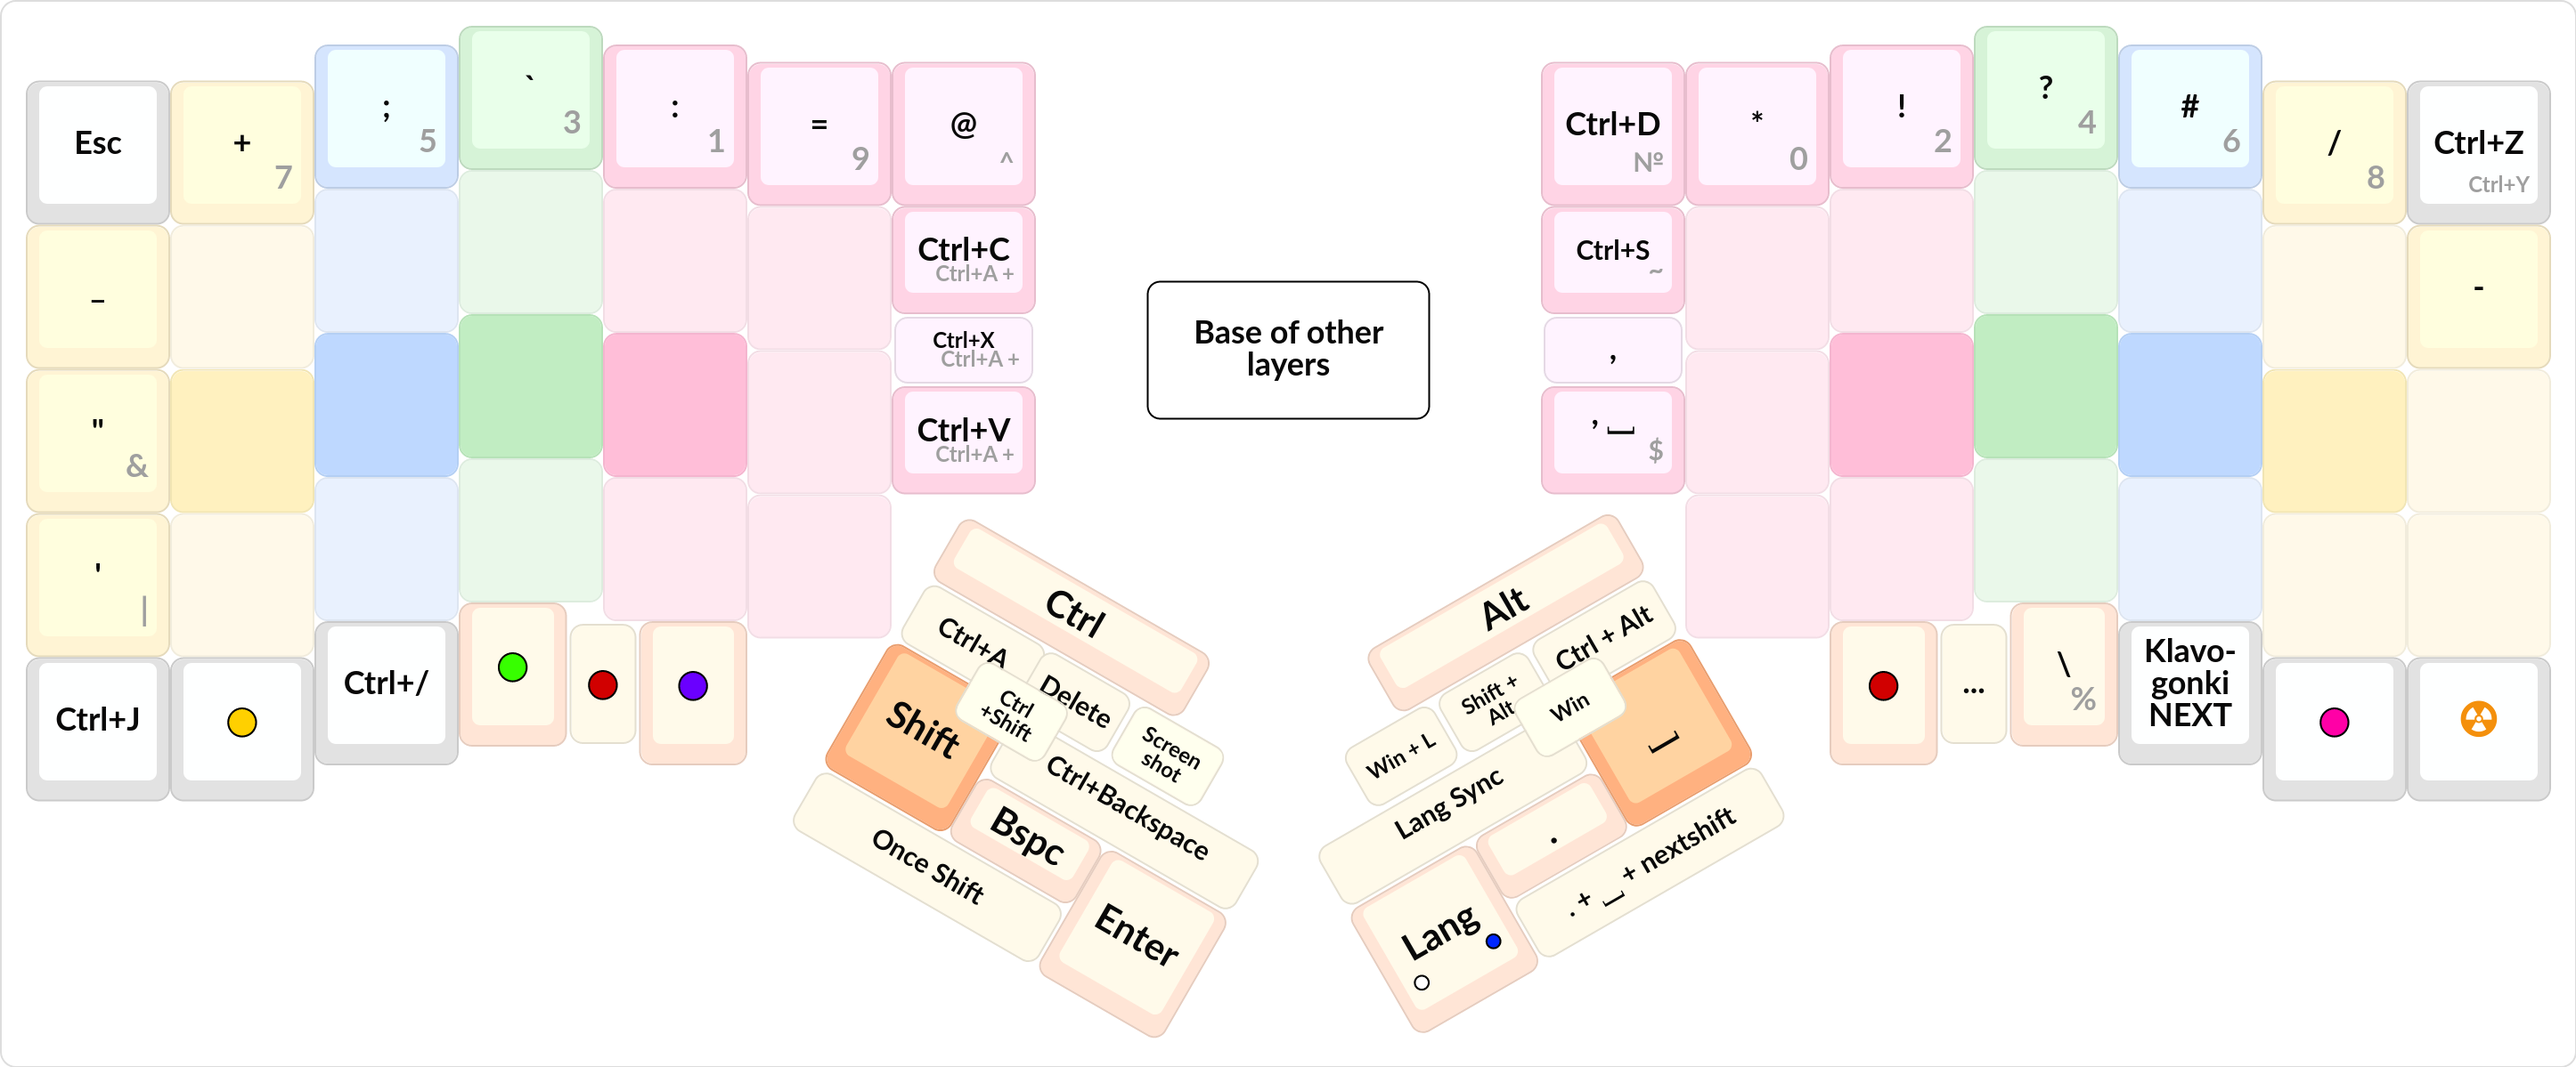
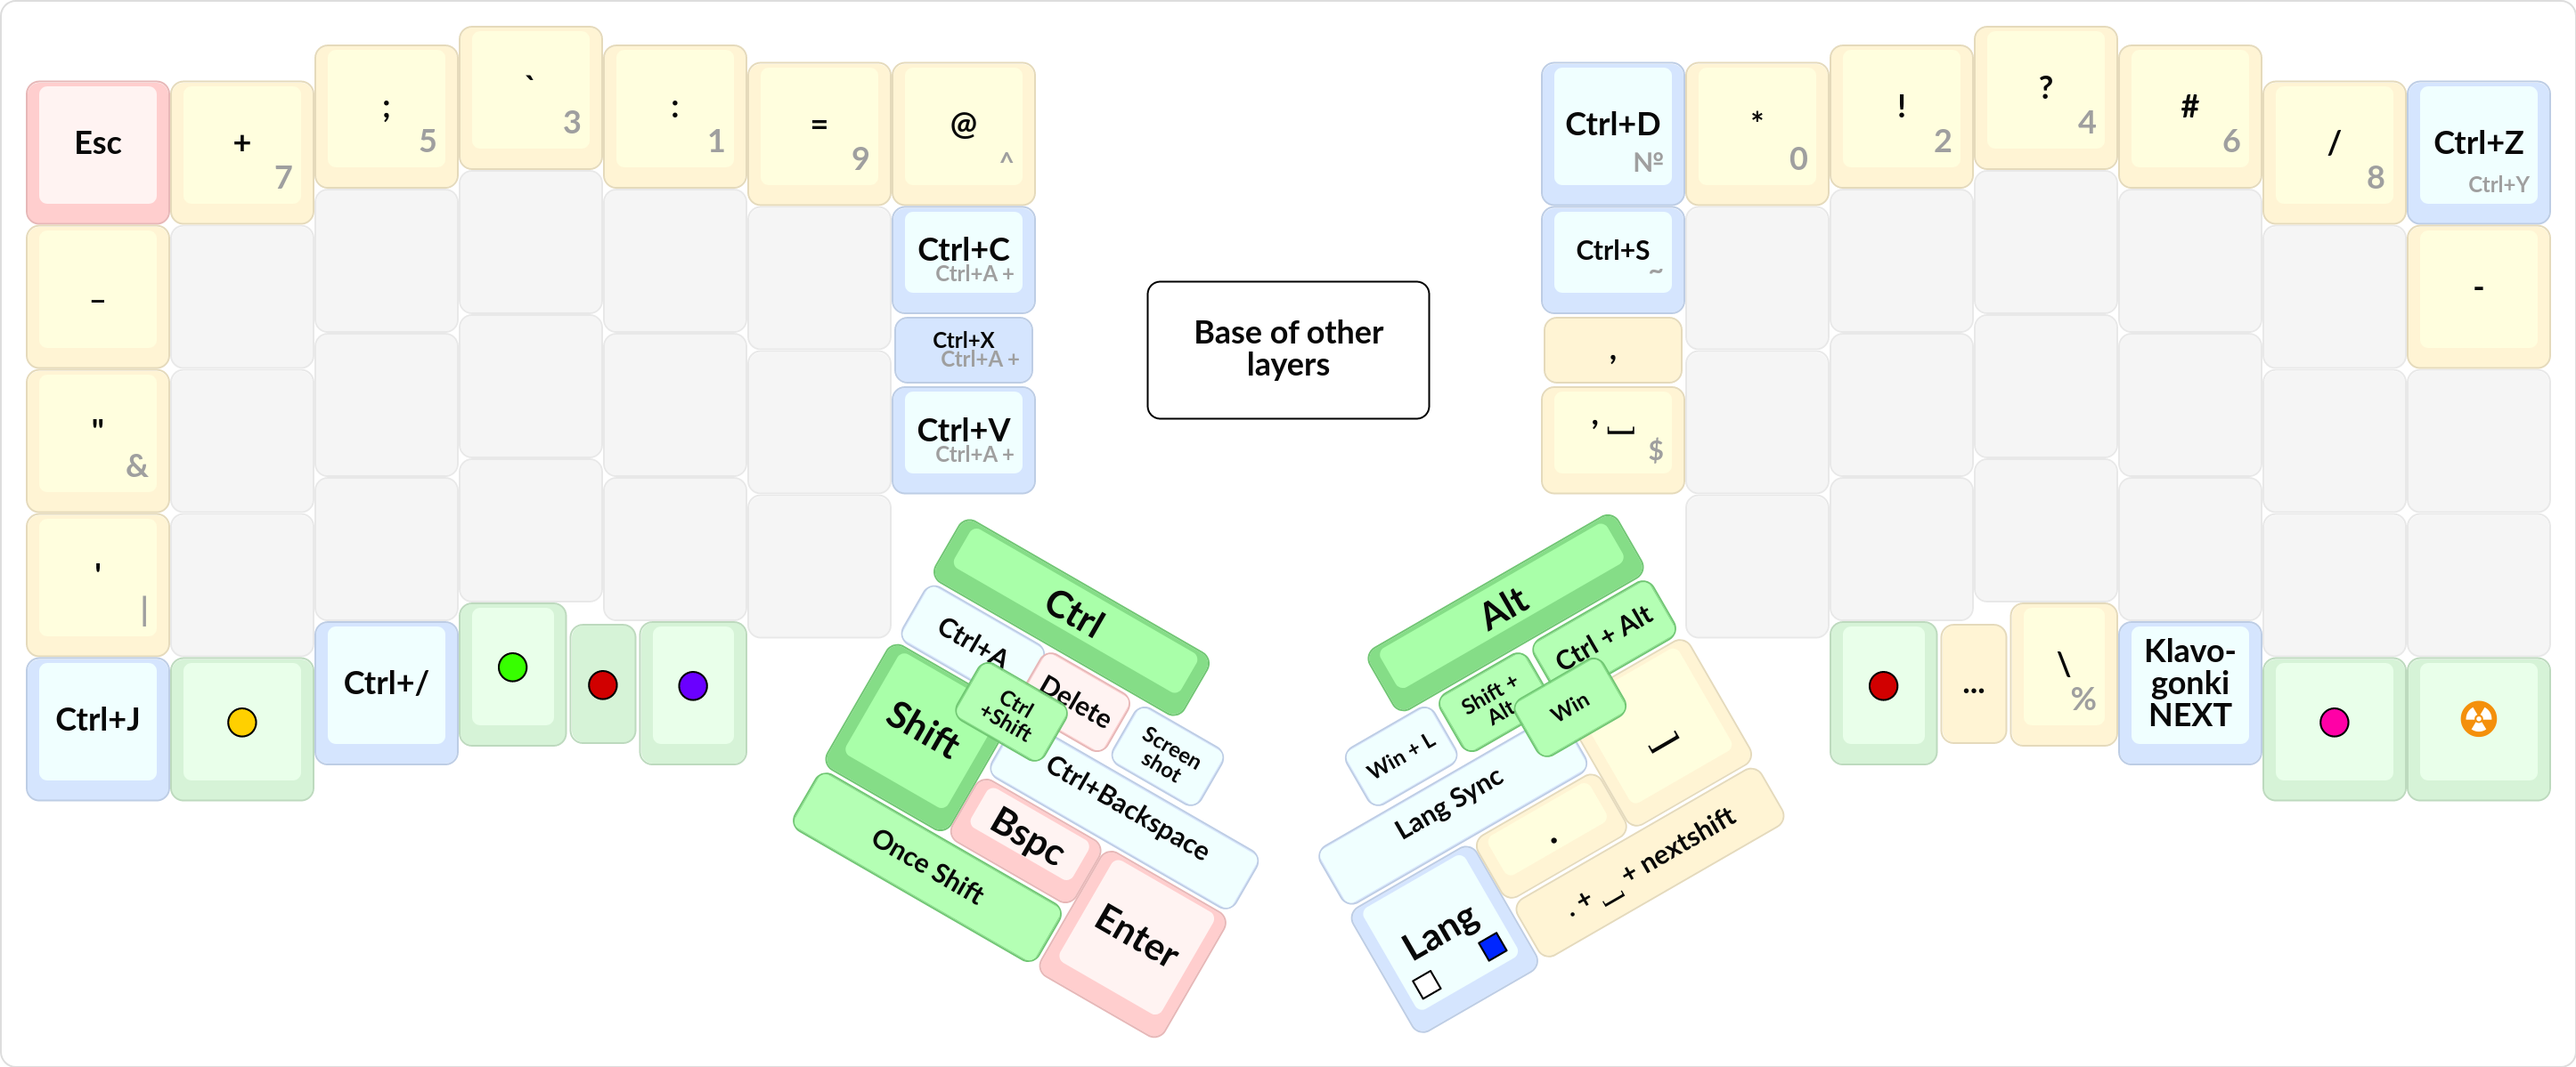
add images

diff --git a/README.md b/README.md
@@ -47,7 +47,13 @@
 
 Пока что без объяснений, просто кидаюсь картинкой, выглядит она так:
 
-![](img/layout_all.png)
+![](img/zones.png)
+![](img/base.png)
+![](img/chords.png)
+![](img/langs.png)
+![](img/red_green.png)
+![](img/violet_yellow.png)
+![](img/game_nuclear.png)
 
 ## Как ты сделал эту раскладку?
 
@@ -327,6 +333,26 @@
 
 Поэтому в основном все самые продвинутые люди хранят свои слои и вообще раскладки полностью внутри клавиатуры. Там это и легче сделается, и вообще это кросс-платформенно.
 
+### Каждому слою - своя картинка
+
+Если вы взглянете на стандартную клавиатуру, где нанесены надписи на русском языке, то не зная клавиатуры, довольно сложно понять что при каком языке, при шифте нажимается. Ещё надписи располагаются по углам клавиши.
+
+Примерно такому же стилю следуют люди, которые рисуют свою раскладку для программируемой клавиатуры, где помимо двух языков может быть ещё два дополнительных слоя. Из-за этого им приходится сувать надписи в экзотические места, а иногда разукрашивать надписи разным цветом для разных клавиш.
+
+Пример:
+
+![](img/snag.png)
+
+Взято с вики про клавиатуру [Коряга](http://klavarog.tk/page/клавиатуры/коряга). Справедливости ради стоит сказать, что автор в своей раскладке на KLE таки разделил всё на отдельные слои, я эту раскладку просто показываю как пример, как другие люди обычно делают. А обычно они делают такую картинку без картинок, разделённых на слои.
+
+Конечно, такие картинки раскладки крайне компактны, и напечатать их легко. Но мне такие картинки не нравятся совсем, потому что-то, во-первых нужно научиться читать что означает позиция символа с точки зрения автора картинки. Во-вторых если ты, незнакомый человек, хочешь посмотреть как выглядит конкретный слой, то у тебя будет очень много отвлекающих моментов, и ты не сможешь так просто найти то что тебе нужно.
+
+Особенно этот подход становится неприменим, когда у тебя надо подписать комментарий к символу, или у тебя очень много слоёв. Именно поэтому я придерживаюсь философии: 
+
+**Каждому слою - своя картинка.**
+
+
+
 ### Зоны
 
 Начнём пока что с самой простой картинки - основой всех остальных картинок.
@@ -357,7 +383,7 @@
 
 Куда более сложные аккорды находятся на тамб-кластере, и тут нужно отдельное объяснение:
 
-[![](img/thumb_chords.png)](https://kle.klava.org/#/gists/2c45a0b833ca272d7b94fdc66a668af7)
+[![](img/chords.png)](https://kle.klava.org/#/gists/2c45a0b833ca272d7b94fdc66a668af7)
 
 Клавиши обозначаются числами 1, 2, 3, 4, а аккорды обозначаются как сумма этих чисел. В целом, если посмотреть на картинку, логику расстановки аккордов можно понять - они находятся между всеми клавишами, что нажимаются.
 
